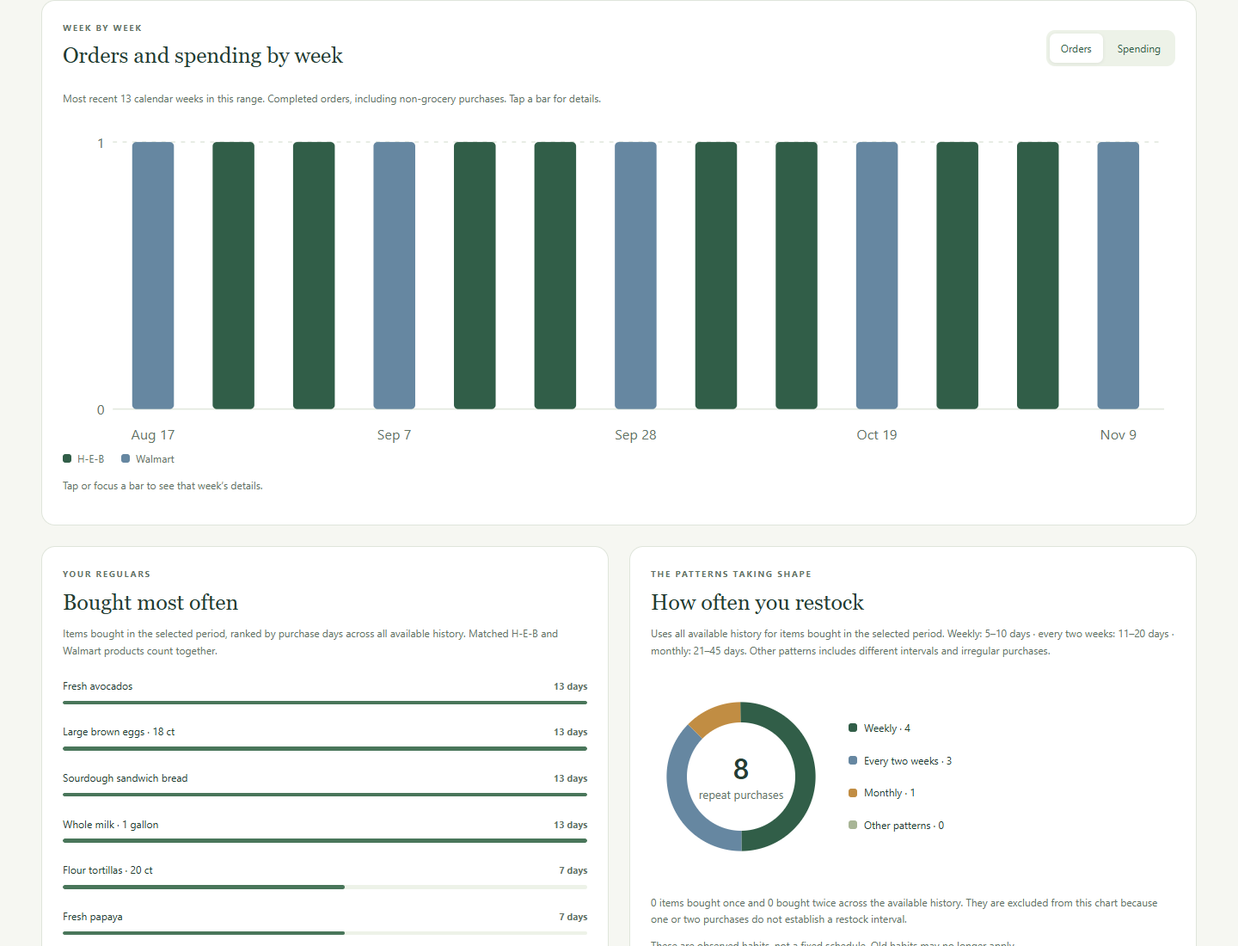
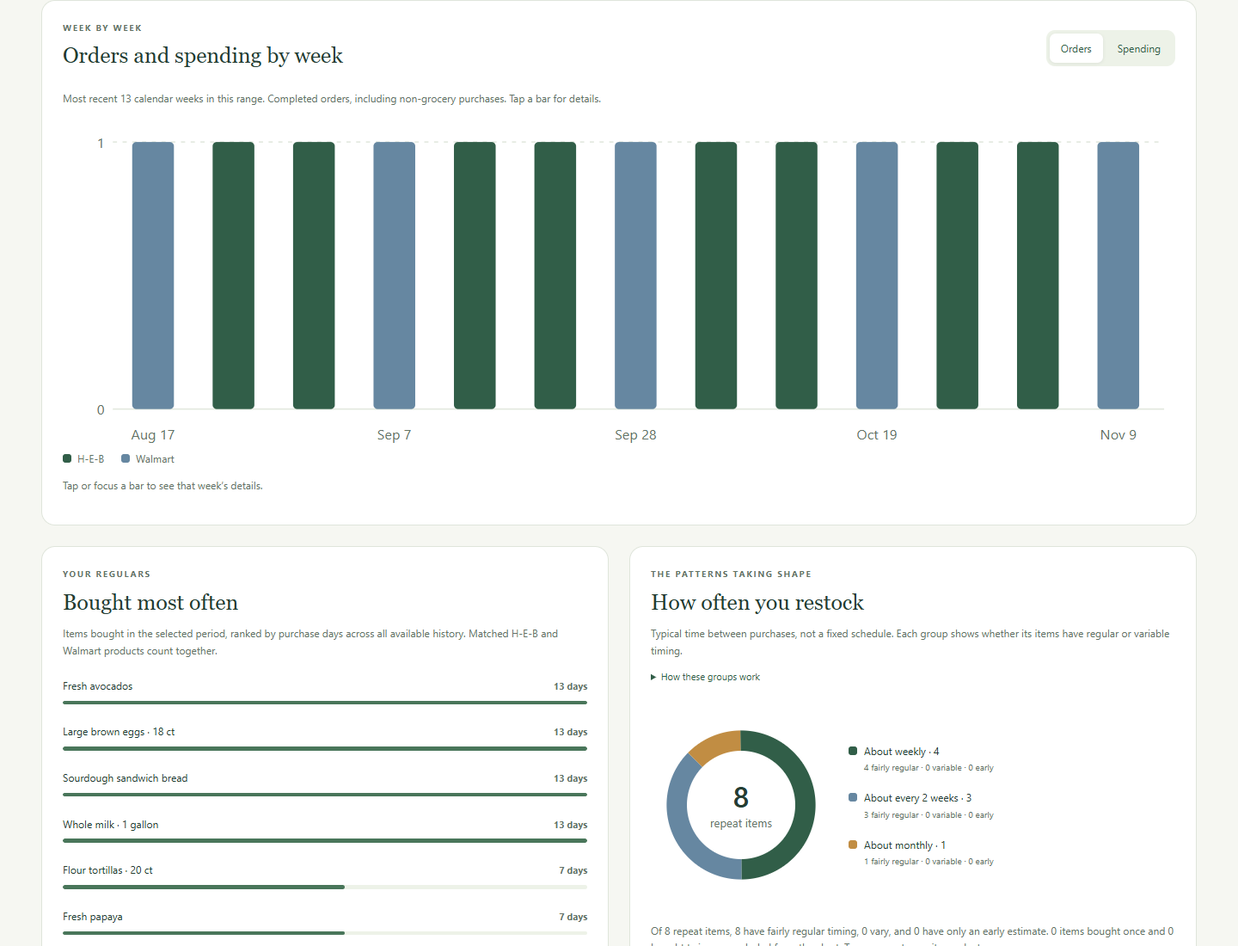
Separate restock frequency from timing consistency

Changed region(s): [[0.5312, 0.6491, 0.9375, 1.0]]

diff --git a/web/index.html b/web/index.html
@@ -9,6 +9,6 @@
 <aside><section class="list-card" aria-labelledby="cart-heading"><div class="section-heading"><div><p id="cart-store-label" class="eyebrow">LIVE WALMART CART</p><h2 id="cart-heading">Walmart cart <span id="list-count">0</span></h2></div></div><details id="cart-details" open><summary>Show cart & checkout</summary><p id="cart-description" class="fine">Changes here update the selected account’s cart.</p><div id="list"></div><button id="send" class="secondary full">↻ Check cart now</button><a id="checkout-link" class="primary" href="https://www.walmart.com/cart">Review & checkout ↗</a><details class="completion"><summary>After checkout (optional)</summary><p id="completion-question">Finished checking out?</p><button id="complete" class="text-button">Mark purchase complete</button><p class="fine">Optionally hide this checked-out shop while waiting for its receipt. Your store cart stays unchanged. Weekly history sync collects new purchases and updates spending automatically.</p></details></details></section><details class="activity panel"><summary>Recent cart activity</summary><div id="jobs"></div></details></aside></div></section>
 <section id="lists-view" hidden><div class="page-heading"><div><p class="eyebrow">A LIST IS ALL YOU NEED</p><h1>From “milk” to your usual milk.</h1><p>Turn short item names into specific products, then review the list before sending.</p></div></div><div class="list-layout"><section class="planner" aria-labelledby="planner-heading"><p class="eyebrow">FROM A SHORT LIST TO THE RIGHT PRODUCTS</p><h2 id="planner-heading">What’s on the list?</h2><p>Paste a family member’s list. We’ll use your saved choices and show you any extras before you send it.</p><label for="grocery-text">One item per line; quantities such as “2 milk” are optional</label><textarea id="grocery-text" rows="6" placeholder="bread&#10;butter&#10;milk&#10;tortillas"></textarea><button id="plan-list">Review my list</button><p id="plan-status" role="status"></p><div id="plan-review"></div><div id="plan-summary" aria-live="polite"></div><button id="plan-send" hidden>Send reviewed items to Walmart</button></section><aside class="panel list-guide"><p class="eyebrow">HOW IT WORKS</p><h2>A quick review, then you’re ready.</h2><ol><li><strong>Paste the list.</strong><p>One item per line. A missing quantity uses your usual amount, or one package.</p></li><li><strong>Review the choices.</strong><p>Pick exact products and check any associated extras.</p></li><li><strong>Send to your cart.</strong><p>Nothing is sent until you choose to send the reviewed list.</p></li></ol><button class="secondary" data-view="setup">Manage usual products & extras</button></aside></div></section>
 <section id="packs-view" hidden><div class="page-heading"><div><p class="eyebrow">THE THINGS THAT GO TOGETHER</p><h1>Shopping packs</h1><p>Pick a familiar group, see what’s inside, and choose just what you need.</p></div></div><section class="panel"><label for="pack-select">Choose a pack</label><select id="pack-select"></select><p id="pack-description" class="fine"></p><div id="pack-items"></div><button id="pack-add" class="primary" hidden>Add selected items to Walmart cart</button><p id="pack-status" role="status"></p></section><details class="panel"><summary>Create or customize a pack</summary><p>Choose a name your household will recognize, such as “Breakfast restock.” Saving a pack does not add anything to your cart.</p><label for="pack-name">Pack name</label><input id="pack-name" maxlength="100" placeholder="e.g. Bathroom restock & breakfast"><label for="pack-search">Find products</label><input id="pack-search" type="search" placeholder="Search saved products"><div id="pack-builder"></div><button id="pack-save">Save pack</button><p class="fine">To customize a suggested pack, select it above, then save your own name and contents here. Suggestions use items repeatedly bought together, rather than items that merely appear in many orders. You may see only a few suggestions. Create your own pack whenever you want a specific group.</p></details></section><section id="history-view" hidden><div class="page-heading"><div><p class="eyebrow">LEARN FROM THE SHOPS YOU FINISH</p><h1>Shopping history</h1><p>Completed purchases build your reorder suggestions. Cart activity is kept separately.</p></div></div><div class="history-toolbar panel"><label for="history-search">Find a purchase<input id="history-search" type="search" placeholder="Search items in your orders"></label><label for="history-store">Store<select id="history-store"><option value="all">Both stores</option><option value="HEB">H-E-B</option><option value="Walmart">Walmart</option></select></label><p id="history-summary" class="fine"></p></div><div id="pending-purchases"></div><div id="history" class="history"></div><div id="history-pagination" class="history-pagination"></div><details class="panel history-tools"><summary>Import older purchases</summary><section class="panel"><h2>Import past purchases</h2><p>Upload a purchase-history file in the format shown below. Review the orders before importing. Uploading a file does not change your store cart.</p><label for="import-account">Household account for this history</label><select id="import-account"></select><label for="import-store">Store</label><select id="import-store"><option value="Walmart">Walmart</option><option value="HEB">H-E-B</option></select><label for="import-file">History file (JSON or CSV, up to 1.5 MB)</label><input id="import-file" type="file" accept=".json,.csv,application/json,text/csv"><button id="import-preview">Preview import</button><p><a href="/history-template.csv" download>Download CSV format example</a> · <a href="/history-template.json" download>Download JSON format example</a></p><p class="fine">Examples contain fictional orders. Do not import them as real purchases. Both stores can inform shared suggestions after product matches are reviewed. Cart filling is available for both stores.</p><p id="import-status" role="status"></p><div id="import-review"></div><button id="import-commit" hidden>Import selected completed orders</button></section></details><details class="panel history-tools"><summary>Past cart additions <span class="fine">Includes early testing; not used for reorder timing.</span></summary><div id="cart-history" class="history"></div></details></section>
-<section id="stats-view" hidden><div class="page-heading"><div><p class="eyebrow">A CLEARER VIEW OF YOUR ROUTINE</p><h1>Spending & shopping habits</h1><p>See what you buy, when you buy it, and where there may be better value.</p></div></div><div class="stats-toolbar panel"><div><label for="stats-period">History to summarize</label><select id="stats-period"><option value="90">Last 90 days</option><option value="365">Last 12 months</option><option value="0">All history</option></select></div><div><label for="stats-store">Store</label><select id="stats-store"><option value="all">Both stores</option><option value="HEB">H-E-B</option><option value="Walmart">Walmart</option></select></div><p id="stats-range" class="fine"></p><div><button id="stats-refresh" class="secondary">Refresh data</button><p id="stats-freshness" class="fine">Checking household database…</p></div></div><div id="stats-empty" class="empty" hidden>No completed purchases in this range. Choose another store or time period.</div><div id="stats-content"><div id="stats-metrics" class="stat-metrics"></div><p id="stats-coverage" class="stat-coverage"></p><div class="stats-columns"><section class="panel"><h2>Items getting more expensive</h2><p class="fine">Your last two purchases of the same product at the same store. Prices are compared per package or by weight.</p><div id="stats-price-rises"></div></section><section class="panel"><h2>Plan your next shop</h2><p id="stats-next-summary"></p><div id="stats-next-items"></div><p id="stats-next-cost" class="fine"></p><button id="stats-build-list" class="primary">Review my usual list</button></section></div><section class="panel"><h2>Prices checked at the stores</h2><p class="fine">Store prices checked within the last 7 days, compared using your saved package amounts. Alternatives with different types are excluded. Delivery charges, tax and checkout discounts may differ.</p><button id="current-prices-refresh">Check matched prices at both stores</button><p id="current-prices-status" role="status" class="fine"></p><div id="current-price-comparisons"></div></section><section class="panel stat-trend-panel"><div class="section-heading"><div><p class="eyebrow">WEEK BY WEEK</p><h2>Orders and spending by week</h2></div><div class="stat-chart-switch"><button data-stat-chart="activity" aria-pressed="true">Orders</button><button data-stat-chart="cost" aria-pressed="false">Spending</button></div></div><p id="stats-trend-caption" class="fine"></p><div id="stats-trend"></div><div id="stats-chart-legend" class="stat-chart-legend"><span><i style="background:#315e48"></i>H-E-B</span><span><i style="background:#6687a1"></i>Walmart</span></div><p id="stats-chart-note" role="status" class="fine">Tap or focus a bar to see that week’s details.</p></section><div class="stats-columns"><section class="panel"><p class="eyebrow">YOUR REGULARS</p><h2>Bought most often</h2><p class="fine">Items bought in the selected period, ranked by purchase days across all available history. Matched H-E-B and Walmart products count together.</p><div id="stats-top"></div></section><section class="panel"><p class="eyebrow">THE PATTERNS TAKING SHAPE</p><h2>How often you restock</h2><p class="fine">Uses all available history for items bought in the selected period. Weekly: 5–10 days · every two weeks: 11–20 days · monthly: 21–45 days. Other patterns includes different intervals and irregular purchases.</p><div id="stats-cadence"></div><p id="stats-cadence-note" class="fine"></p><p class="fine">These are observed habits, not a fixed schedule. Old habits may no longer apply.</p></section></div><section class="panel"><div class="section-heading"><div><p class="eyebrow">PLAN WITH LESS GUESSWORK</p><h2>Your purchase patterns</h2></div><label for="stats-cadence-filter">Show<select id="stats-cadence-filter"><option>All</option><option>Weekly</option><option>Every two weeks</option><option>Monthly</option><option>Other patterns</option><option>Bought once</option><option>Bought twice</option></select></label></div><p class="fine">Use past buying habits to plan what to check at home. Purchase frequency does not tell us how much you have left. Matched products count together; package size and household needs can change.</p><label for="stats-pattern-sort">Sort items<select id="stats-pattern-sort"><option value="frequent">Most frequently bought</option><option value="recent">Most recently bought</option><option value="name">Item name A–Z</option></select></label><label class="stat-pattern-search" for="stats-pattern-search">Find an item<input id="stats-pattern-search" type="search" placeholder="Search your purchase patterns"></label><p id="stats-pattern-summary" class="fine"></p><div class="stat-table-wrap"><table class="stat-table"><thead><tr><th scope="col">Item</th><th scope="col">Buying habit</th><th scope="col">Last purchase</th><th scope="col">History behind this</th><th scope="col">For planning</th></tr></thead><tbody id="stats-patterns"></tbody></table></div><p class="fine stat-scroll-hint">Open the purchase-day count to see the dates and intervals behind each estimate.</p><div id="stats-pattern-pages" class="history-pagination"></div></section><section class="stat-value-section"><p class="eyebrow">MAKE THE NEXT SHOP COUNT</p><h2>Where to check for better value</h2><p class="fine">Fresh store-price comparisons appear first. Planning ideas use your purchase history. Offers may have conditions; confirm the final price at checkout.</p><div id="stats-savings" class="stats-tips"></div></section></div></section>
+<section id="stats-view" hidden><div class="page-heading"><div><p class="eyebrow">A CLEARER VIEW OF YOUR ROUTINE</p><h1>Spending & shopping habits</h1><p>See what you buy, when you buy it, and where there may be better value.</p></div></div><div class="stats-toolbar panel"><div><label for="stats-period">History to summarize</label><select id="stats-period"><option value="90">Last 90 days</option><option value="365">Last 12 months</option><option value="0">All history</option></select></div><div><label for="stats-store">Store</label><select id="stats-store"><option value="all">Both stores</option><option value="HEB">H-E-B</option><option value="Walmart">Walmart</option></select></div><p id="stats-range" class="fine"></p><div><button id="stats-refresh" class="secondary">Refresh data</button><p id="stats-freshness" class="fine">Checking household database…</p></div></div><div id="stats-empty" class="empty" hidden>No completed purchases in this range. Choose another store or time period.</div><div id="stats-content"><div id="stats-metrics" class="stat-metrics"></div><p id="stats-coverage" class="stat-coverage"></p><div class="stats-columns"><section class="panel"><h2>Items getting more expensive</h2><p class="fine">Your last two purchases of the same product at the same store. Prices are compared per package or by weight.</p><div id="stats-price-rises"></div></section><section class="panel"><h2>Plan your next shop</h2><p id="stats-next-summary"></p><div id="stats-next-items"></div><p id="stats-next-cost" class="fine"></p><button id="stats-build-list" class="primary">Review my usual list</button></section></div><section class="panel"><h2>Prices checked at the stores</h2><p class="fine">Store prices checked within the last 7 days, compared using your saved package amounts. Alternatives with different types are excluded. Delivery charges, tax and checkout discounts may differ.</p><button id="current-prices-refresh">Check matched prices at both stores</button><p id="current-prices-status" role="status" class="fine"></p><div id="current-price-comparisons"></div></section><section class="panel stat-trend-panel"><div class="section-heading"><div><p class="eyebrow">WEEK BY WEEK</p><h2>Orders and spending by week</h2></div><div class="stat-chart-switch"><button data-stat-chart="activity" aria-pressed="true">Orders</button><button data-stat-chart="cost" aria-pressed="false">Spending</button></div></div><p id="stats-trend-caption" class="fine"></p><div id="stats-trend"></div><div id="stats-chart-legend" class="stat-chart-legend"><span><i style="background:#315e48"></i>H-E-B</span><span><i style="background:#6687a1"></i>Walmart</span></div><p id="stats-chart-note" role="status" class="fine">Tap or focus a bar to see that week’s details.</p></section><div class="stats-columns"><section class="panel"><p class="eyebrow">YOUR REGULARS</p><h2>Bought most often</h2><p class="fine">Items bought in the selected period, ranked by purchase days across all available history. Matched H-E-B and Walmart products count together.</p><div id="stats-top"></div></section><section class="panel"><p class="eyebrow">THE PATTERNS TAKING SHAPE</p><h2>How often you restock</h2><p class="fine">Typical time between purchases, not a fixed schedule. Each group shows whether its items have regular or variable timing.</p><details class="stat-cadence-method"><summary>How these groups work</summary><p class="fine">For items bought in the selected period, we use up to 12 recent gaps from all available history. The middle gap sets the frequency group; consistency is assessed separately. Every few days: 1–4 days · weekly: 5–10 · every 2 weeks: 11–20 · monthly: 21–45 · every few months: 46–120 · less often: over 120. Groups use rounded days.</p></details><div id="stats-cadence"></div><p id="stats-cadence-note" class="fine"></p><p class="fine">These are observed habits, not a fixed schedule. Old habits may no longer apply.</p></section></div><section class="panel"><div class="section-heading"><div><p class="eyebrow">PLAN WITH LESS GUESSWORK</p><h2>Your purchase patterns</h2></div><label for="stats-cadence-filter">Show<select id="stats-cadence-filter"><option>All</option><option>Every few days</option><option value="Weekly">About weekly</option><option value="Every two weeks">About every 2 weeks</option><option value="Monthly">About monthly</option><option>Every few months</option><option>Less often</option><option>Bought once</option><option>Bought twice</option></select></label></div><p class="fine">Use past buying habits to plan what to check at home. Purchase frequency does not tell us how much you have left. Matched products count together; package size and household needs can change.</p><label for="stats-pattern-sort">Sort items<select id="stats-pattern-sort"><option value="frequent">Most frequently bought</option><option value="recent">Most recently bought</option><option value="name">Item name A–Z</option></select></label><label class="stat-pattern-search" for="stats-pattern-search">Find an item<input id="stats-pattern-search" type="search" placeholder="Search your purchase patterns"></label><p id="stats-pattern-summary" class="fine"></p><div class="stat-table-wrap"><table class="stat-table"><thead><tr><th scope="col">Item</th><th scope="col">Typical gap & consistency</th><th scope="col">Last purchase</th><th scope="col">History behind this</th><th scope="col">For planning</th></tr></thead><tbody id="stats-patterns"></tbody></table></div><p class="fine stat-scroll-hint">Open the purchase-day count to see the dates and intervals behind each estimate.</p><div id="stats-pattern-pages" class="history-pagination"></div></section><section class="stat-value-section"><p class="eyebrow">MAKE THE NEXT SHOP COUNT</p><h2>Where to check for better value</h2><p class="fine">Fresh store-price comparisons appear first. Planning ideas use your purchase history. Offers may have conditions; confirm the final price at checkout.</p><div id="stats-savings" class="stats-tips"></div></section></div></section>
 <section id="setup-view" hidden class="setup"><div class="page-heading"><p class="eyebrow">MAKE IT YOUR HOUSEHOLD’S</p><h1>Settings</h1><p>Set your shopping preferences, manage connected accounts, and review history sync. Product matching is available below when you need it.</p></div><nav class="settings-nav" aria-label="Settings sections"><button data-settings-jump="settings-shopping">Shopping preferences</button><button data-settings-jump="settings-usuals">Usual items & extras</button><button data-settings-jump="settings-sync">History sync</button><button data-settings-jump="settings-accounts">Accounts</button><button data-settings-jump="settings-matches">Product matches</button></nav><section class="panel" id="settings-shopping"><label for="preferred-store">Main grocery store</label><select id="preferred-store"><option value="HEB">H-E-B</option><option value="Walmart">Walmart</option></select><p class="fine">Chooses which store’s product to prefer in shared suggestions. The shop and checkout use this store; existing store carts stay separate.</p></section><section class="panel"><h2>H-E-B produce preferences</h2><label for="heb-ripeness">When H-E-B offers a ripeness choice</label><select id="heb-ripeness"><option>No preference</option><option>Ready Now</option><option>Ready Later</option></select><p class="fine">Used for items such as avocados. The helper chooses this option before confirming the add.</p></section><section class="panel" id="settings-usuals"><details><summary>Usual products & automatic extras</summary><p>Choices are shared across your household. Usual products are saved separately for H-E-B and Walmart.</p><div id="saved-defaults"></div><h3>When this is requested, also get…</h3><label for="rule-trigger">Requested item</label><input id="rule-trigger" placeholder="e.g. butter" maxlength="100"><label for="rule-extra">Extra item</label><input id="rule-extra" placeholder="e.g. papaya" maxlength="100"><label for="rule-mode">How to include it in the review</label><select id="rule-mode"><option value="suggest">Suggest, initially unchecked</option><option value="include">Include, initially checked</option></select><button id="rule-save">Save association</button><div id="saved-rules"></div></details></section><section class="panel" id="settings-accounts"><details><summary>Connected accounts</summary><div id="browser-setup"></div><ol><li>Reload Home Grocery Helper in Chrome’s Extensions page.</li><li>In the extension, set Household website to <strong id="server-url"></strong>, then choose Connect household.</li><li>Use a separate Chrome profile for each Walmart account. In each extension, enter an account nickname under Household website and connect it. Link each account to its matching PC Chrome profile above to open Chrome automatically when a list arrives. Connect the Walmart session if it asks.</li></ol></details></section><section class="panel" id="settings-sync"><h2>Purchase history sync</h2><p>Every Monday at 2 a.m. Eastern time, for both stores on your default account. If this PC is off, it catches up when the server starts. Already verified receipts are skipped. Chrome keeps your store sign-ins.</p><button id="history-sync-now">Check for new purchases now</button><p id="history-sync-status" role="status"></p><div id="history-sync-tasks"></div></section><section class="panel"><h2>Product photos</h2><p class="fine">Photos are saved on this PC and shared with your household devices. The helper learns photos as you browse store product pages, search results and carts. Collect a batch for your selected store to fill gaps now.</p><p id="photo-cache-status" class="fine"></p><button id="collect-photos">Collect missing photos</button><p id="photo-collect-status" role="status" class="fine"></p></section><section class="panel" id="settings-matches"><details><summary>Match products across stores</summary><p class="fine">Match products you would buy in place of each other, such as your usual Walmart milk and H-E-B milk. Purchases from either store then count toward the same household item. Check type and package size first.</p><div id="household-matches"></div><details><summary>Add or edit a household item</summary><label for="household-item-name">Name for this item</label><input id="household-item-name" maxlength="100" placeholder="e.g. Whole milk — gallon equivalent"><label for="household-item-search">Find products in completed purchases</label><input id="household-item-search" type="search" placeholder="Try milk"><p class="fine">For package counts, set equivalent amounts: a gallon = 1, a half gallon = 0.5. Weight matches retain their units. When linking a package to a weighed product, enter grams per package (12 oz = 340.194 g).</p><div id="household-item-options"></div><button id="household-item-save">Save product match</button><button id="household-item-reset">Match another item</button><p id="household-item-status" role="status"></p></details></details></section><details class="panel" hidden><summary>Paused headless browser</summary><p class="fine">Experimental. The current runner is paused after repeated Walmart human checks. Your regular Chrome connection is the working option.</p><div id="headless-accounts"></div><label for="runner-name">New headless account nickname</label><input id="runner-name" maxlength="60" placeholder="e.g. Avery groceries"><button id="runner-setup">Set up headless runner / sign in</button><p>Setup opens a separate browser for sign-in. Complete any Walmart check and make one normal cart change. Future launches run without visible windows. Close this setup browser before testing headless mode.</p></details><p>The extension shares learned products and shopping history with this PC’s database. Browsers on your home network can use this website; Walmart credentials stay with Walmart.</p><p>Use <strong>http://groceries.local</strong> on your other home computers. The hosting PC must stay on. If your device cannot resolve local names, the original address is <strong>http://192.168.1.250:4317</strong>.</p></section>
 </main><footer><span>Home Grocery · Made for the everyday.</span><span>Home network · Checkout stays with your store</span></footer><script src="/calendar.js"></script><script src="/list-planner.js"></script><script src="/statistics.js"></script><script src="/product-photos.js"></script><script src="/app.js"></script><script src="/usual-list.js"></script><script src="/planner-ui.js"></script><script src="/history-import-ui.js"></script><script src="/packs-ui.js"></script><script src="/household-items-ui.js"></script><script src="/history-ui.js"></script><script src="/current-prices.js"></script><script src="/statistics-ui.js"></script><script src="/store-sync-ui.js"></script></body></html>

diff --git a/web/statistics-ui.js b/web/statistics-ui.js
@@ -22,9 +22,9 @@
     const query=$('stats-pattern-search').value.trim().toLowerCase();const rows=data.patterns.filter(p=>(cadenceFilter==='All'||p.cadence===cadenceFilter)&&(!query||p.name.toLowerCase().includes(query)));const sort=$('stats-pattern-sort').value;rows.sort(sort==='recent'?(a,b)=>b.last-a.last||b.visits-a.visits:sort==='name'?(a,b)=>a.name.localeCompare(b.name):(a,b)=>b.visits-a.visits||b.last-a.last);patternPage=Math.min(patternPage,Math.max(0,Math.ceil(rows.length/10)-1));$('stats-patterns').replaceChildren();
     for(const item of rows.slice(patternPage*10,(patternPage+1)*10)){
       const tr=node('tr'),name=node('td');name.dataset.label='Item';name.append(node('strong',item.name),node('small',item.stores.map(s=>s==='HEB'?'H-E-B':s).join(' + ')));
-      const routine=node('td');routine.dataset.label='Buying habit';routine.append(node('strong',item.cadence==='Other patterns'?(item.regularTiming?'Other interval':'Timing varies'):item.cadence),node('small',item.interval===null?'No repeat estimate yet':item.cadence==='Other patterns'&&!item.regularTiming?item.minGap+'–'+item.maxGap+' days between recent purchases':'About every '+Math.round(item.interval)+' days'),node('small',item.interval===null?'':item.confidence));
+      const routine=node('td');routine.dataset.label='Typical gap & consistency';routine.append(node('strong',item.cadenceLabel||item.cadence),node('small',item.interval===null?'No repeat estimate yet':'Typical gap: '+Math.round(item.interval)+' days'),node('small',item.interval===null?'':item.confidence));if(item.gapCount>=3&&!item.consistent)routine.append(node('small','Middle half of recent gaps: '+item.typicalMinGap+'–'+item.typicalMaxGap+' days'));
       const elapsed=HouseholdCalendar.elapsed(item.last),last=node('td');last.dataset.label='Last purchase';last.append(node('strong',date(item.last)),node('small',elapsed===0?'Today':elapsed===1?'Yesterday':elapsed+' days ago'));
-      const evidence=node('td'),details=node('details');evidence.dataset.label='History behind this';details.append(node('summary',item.visits+' purchase '+(item.visits===1?'day':'days')),node('p','Recorded '+date(item.first)+'–'+date(item.last)+'. Multiple purchases on the same date count as one day. '+(item.gapCount>=2?'Timing uses the most recent '+item.gapCount+' intervals, ranging from '+item.minGap+' to '+item.maxGap+' days.':'At least three purchase days are needed to estimate timing.'),'fine'));evidence.append(details);
+      const evidence=node('td'),details=node('details');evidence.dataset.label='History behind this';details.append(node('summary',item.visits+' purchase '+(item.visits===1?'day':'days')),node('p','Recorded '+date(item.first)+'–'+date(item.last)+'. Multiple purchases on the same date count as one day. '+(item.gapCount>=2?'Typical timing is the median of the most recent '+item.gapCount+' gaps. From older to newer: '+item.gaps.join(', ')+' days. Range: '+item.minGap+'–'+item.maxGap+' days. Frequency groups do not imply a fixed routine.':'At least three purchase days are needed to estimate timing.'),'fine'));evidence.append(details);
       let insight=item.visits<3?'Too few repeats to estimate a routine.':item.gapCount<3?'Early estimate from only two intervals. Check your needs before treating this as a routine.':!item.consistent?'Timing varies. Check your needs rather than following a schedule.':elapsed>Math.max(30,item.interval*3)?'Older habit. Check whether you still buy this regularly.':elapsed>=Math.max(1,item.interval-2)?'Near or past your usual interval. Check what you have before the next shop.':'You bought this more recently than your usual interval.';const note=node('td',insight);note.dataset.label='For planning';tr.append(name,routine,last,evidence,note);$('stats-patterns').append(tr);
     }
     $('stats-pattern-summary').textContent=rows.length?'Showing '+(patternPage*10+1)+'–'+Math.min((patternPage+1)*10,rows.length)+' of '+rows.length+' items bought in the selected period. Habits and purchase-day counts use all available history for the selected stores.':'No items match this search and filter.';
@@ -51,8 +51,8 @@
     chart(data);
     $('stats-top').replaceChildren();const top=data.patterns.slice(0,10),max=top[0]?.visits||1;
     for(const item of top){const row=node('div',undefined,'stat-rank');const label=node('div');label.append(node('span',item.name),node('strong',item.visits+' days'));const meter=node('meter');meter.min=0;meter.max=max;meter.value=item.visits;meter.setAttribute('aria-label',item.name+': bought on '+item.visits+' days');row.append(label,meter);$('stats-top').append(row);}
-    const colors=['#315e48','#6687a1','#c18d43','#a8b596','#dce3d5'];$('stats-cadence').replaceChildren();const donut=svg('svg',{viewBox:'0 0 160 160',role:'img','aria-label':'Purchase patterns: '+data.cadence.map(c=>c.name+' '+c.count).join(', ')});let offset=0;const total=data.cadence.reduce((n,c)=>n+c.count,0)||1;
-    data.cadence.forEach((c,i)=>{const part=c.count/total*100;donut.append(svg('circle',{cx:80,cy:80,r:57,fill:'none',stroke:colors[i],'stroke-width':18,pathLength:100,'stroke-dasharray':part+' '+(100-part),'stroke-dashoffset':-offset,transform:'rotate(-90 80 80)'}));offset+=part;});const center=svg('text',{x:80,y:82,'text-anchor':'middle','font-size':26,fill:'#243d33','font-weight':600});center.textContent=data.cadence.reduce((n,c)=>n+c.count,0);const sub=svg('text',{x:80,y:100,'text-anchor':'middle','font-size':10,fill:'#647367'});sub.textContent='repeat purchases';donut.append(center,sub);$('stats-cadence').append(donut);const legend=node('div',undefined,'stat-cadence-legend');for(const [i,c] of data.cadence.entries()){const button=node('button',c.name+' · '+c.count);button.style.setProperty('--swatch',colors[i]);button.onclick=()=>{patternPage=0;cadenceFilter=c.name;$('stats-cadence-filter').value=c.name;signature='';window.renderStatistics();};legend.append(button);}$('stats-cadence').append(legend);$('stats-cadence-note').textContent=data.infrequent.once+' items bought once and '+data.infrequent.twice+' bought twice across the available history. They are excluded from this chart because one or two purchases do not establish a restock interval.';patterns(data);
+    const colors=['#7c8d69','#315e48','#6687a1','#c18d43','#957b9e','#bd8a75'];$('stats-cadence').replaceChildren();const donut=svg('svg',{viewBox:'0 0 160 160',role:'img','aria-label':'Purchase patterns: '+data.cadence.map(c=>c.label+' '+c.count).join(', ')});let offset=0;const total=data.cadence.reduce((n,c)=>n+c.count,0)||1;
+    data.cadence.forEach((c,i)=>{const part=c.count/total*100;donut.append(svg('circle',{cx:80,cy:80,r:57,fill:'none',stroke:colors[i],'stroke-width':18,pathLength:100,'stroke-dasharray':part+' '+(100-part),'stroke-dashoffset':-offset,transform:'rotate(-90 80 80)'}));offset+=part;});const center=svg('text',{x:80,y:82,'text-anchor':'middle','font-size':26,fill:'#243d33','font-weight':600});center.textContent=data.cadence.reduce((n,c)=>n+c.count,0);const sub=svg('text',{x:80,y:100,'text-anchor':'middle','font-size':10,fill:'#647367'});sub.textContent='repeat items';donut.append(center,sub);$('stats-cadence').append(donut);const legend=node('div',undefined,'stat-cadence-legend');for(const [i,c] of data.cadence.entries()){if(!c.count)continue;const button=node('button');const label=node('span');label.append(node('span',c.label+' · '+c.count),node('small',c.regular+' fairly regular · '+c.variable+' variable · '+c.early+' early'));button.append(label);button.disabled=!c.count;button.setAttribute('aria-label',c.label+': '+c.count+' items; '+c.regular+' fairly regular, '+c.variable+' variable timing, '+c.early+' early estimates');button.style.setProperty('--swatch',colors[i]);button.onclick=()=>{patternPage=0;cadenceFilter=c.name;$('stats-cadence-filter').value=c.name;signature='';window.renderStatistics();};legend.append(button);}$('stats-cadence').append(legend);const regularCount=data.cadence.reduce((n,c)=>n+c.regular,0),variableCount=data.cadence.reduce((n,c)=>n+c.variable,0),earlyCount=data.cadence.reduce((n,c)=>n+c.early,0);$('stats-cadence-note').textContent='Of '+data.cadence.reduce((n,c)=>n+c.count,0)+' repeat items, '+regularCount+' have fairly regular timing, '+variableCount+' vary, and '+earlyCount+' have only an early estimate. '+data.infrequent.once+' items bought once and '+data.infrequent.twice+' bought twice are excluded from the chart. Tap a group to see its products.';patterns(data);
 
     $('stats-savings').replaceChildren();
     for(const item of CurrentPriceComparisons.compare(state,selectedAccount).filter(i=>i.percent>=5).slice(0,4)){

diff --git a/web/statistics.js b/web/statistics.js
@@ -2,6 +2,8 @@
   const calendar=typeof module!=='undefined'&&module.exports?require('./calendar'):root.HouseholdCalendar;
   const DAY=86400000,grams={lb:453.59237,oz:28.349523125,g:1,kg:1000};
   const median=values=>{const v=[...values].sort((a,b)=>a-b),m=Math.floor(v.length/2);return v.length%2?v[m]:(v[m-1]+v[m])/2;};
+  const cadenceBands=[{name:'Every few days',label:'Every few days',max:4},{name:'Weekly',label:'About weekly',max:10},{name:'Every two weeks',label:'About every 2 weeks',max:20},{name:'Monthly',label:'About monthly',max:45},{name:'Every few months',label:'Every few months',max:120},{name:'Less often',label:'Less often',max:Infinity}];
+  const percentile=(values,fraction)=>{const v=[...values].sort((a,b)=>a-b),pos=(v.length-1)*fraction,index=Math.floor(pos);return v[index]+(v[Math.min(index+1,v.length-1)]-v[index])*(pos-index);};
   const week=time=>{const d=new Date(time);d.setUTCHours(0,0,0,0);d.setUTCDate(d.getUTCDate()-(d.getUTCDay()+6)%7);return d.getTime();};
   function analyze(state,{client,store='all',days=90,now=Date.now()}={}){
     const end=calendar.today(now),start=days?end-(days-1)*DAY:0;
@@ -37,15 +39,18 @@
       const interval=gaps.length>=2?median(gaps):null;const variation=interval?median(gaps.map(g=>Math.abs(g-interval)))/interval:null;
       const regularShare=interval?gaps.filter(g=>Math.abs(g-interval)<=Math.max(2,interval*.4)).length/gaps.length:0;
       const consistent=gaps.length>=3&&variation<=.4&&regularShare>=.75;
-      const cadence=dates.length===1?'Bought once':dates.length===2?'Bought twice':interval===null||variation>.6||regularShare<.7?'Other patterns':interval>=5&&interval<=10?'Weekly':interval>=11&&interval<=20?'Every two weeks':interval>=21&&interval<=45?'Monthly':'Other patterns';
-      return {...row,days:dates,stores:[...(lifetimeStores.get(row.id)||row.stores)],first:dates[0]*DAY,gapCount:gaps.length,minGap:gaps.length?Math.min(...gaps):null,maxGap:gaps.length?Math.max(...gaps):null,consistent,regularTiming:interval!==null&&variation<=.6&&regularShare>=.7,visits:dates.length,interval,cadence,confidence:consistent?'Fairly regular':gaps.length<3?'Early estimate':'Variable timing',last:dates.at(-1)*DAY,repeatWeeks:[...row.weeks.values()].filter(v=>v.size>1).length};
+      // Frequency describes the typical gap. Reliability is a separate judgment:
+      // a mix of weekly and fortnightly purchases still has useful frequency evidence.
+      const band=interval===null?null:cadenceBands.find(b=>Math.round(interval)<=b.max);
+      const cadence=dates.length===1?'Bought once':dates.length===2?'Bought twice':band.name;
+      return {...row,days:dates,stores:[...(lifetimeStores.get(row.id)||row.stores)],first:dates[0]*DAY,gaps,gapCount:gaps.length,minGap:gaps.length?Math.min(...gaps):null,maxGap:gaps.length?Math.max(...gaps):null,typicalMinGap:gaps.length?Math.floor(percentile(gaps,.25)):null,typicalMaxGap:gaps.length?Math.ceil(percentile(gaps,.75)):null,consistent,regularTiming:interval!==null&&variation<=.6&&regularShare>=.7,visits:dates.length,interval,cadence,cadenceLabel:band?.label||cadence,confidence:consistent?'Fairly regular':gaps.length<3?'Early estimate':'Variable timing',last:dates.at(-1)*DAY,repeatWeeks:[...row.weeks.values()].filter(v=>v.size>1).length};
     }).sort((a,b)=>b.visits-a.visits||a.name.localeCompare(b.name));
-    const cadence=['Weekly','Every two weeks','Monthly','Other patterns'].map(name=>({name,count:patterns.filter(p=>p.cadence===name).length}));
+    const cadence=cadenceBands.map(({name,label})=>{const members=patterns.filter(p=>p.cadence===name);return {name,label,count:members.length,regular:members.filter(p=>p.consistent).length,early:members.filter(p=>p.confidence==='Early estimate').length,variable:members.filter(p=>p.confidence==='Variable timing').length};});
     const savings=[];
     if(pricedRows<totalRows)savings.push({title:'Some item prices are still missing',text:(totalRows-pricedRows)+' purchased items are missing prices. Item-price comparisons will improve as those are collected. Spending totals come from full order receipts.',kind:'data'});
     const repeat=patterns.filter(p=>p.repeatWeeks>=2).slice(0,3);
     if(repeat.length)savings.push({title:'Check these before the next top-up shop',text:repeat.map(p=>p.name+' ('+p.repeatWeeks+' weeks with repeat buys)').join('; ')+'. Planning these together may avoid an extra trip; no delivery-fee saving is assumed.',kind:'planning'});
-    const regular=patterns.filter(p=>p.cadence==='Weekly').slice(0,3);
+    const regular=patterns.filter(p=>p.cadence==='Weekly'&&p.consistent).slice(0,3);
     if(regular.length)savings.push({title:'Compare unit prices on your weekly staples',text:regular.map(p=>p.name).join('; ')+'. A larger pack is better value only if its price per ounce, pound or count is lower and you can use it.',kind:'value'});
     for(const item of patterns){const recent=item.prices.filter(p=>now-p.time<=180*DAY),heb=recent.filter(p=>p.store==='HEB'),walmart=recent.filter(p=>p.store==='Walmart');if(!heb.length||!walmart.length)continue;const a=median(heb.map(p=>p.price)),b=median(walmart.map(p=>p.price));if(Math.min(a,b)>0&&Math.abs(a-b)/Math.max(a,b)>=.05){const factor=item.unit==='g'?453.59237:1;savings.push({store:a<b?'HEB':'Walmart',query:item.name,title:'Compare prices you paid before',text:item.name+': H-E-B $'+(a*factor).toFixed(2)+' versus Walmart $'+(b*factor).toFixed(2)+' '+(item.unit==='g'?'per lb':'for the same matched amount')+'. Typical prices you paid in the last 180 days. Compare the current products before choosing.',kind:'comparison'});}}
     const weekCount=weeks.size||1;

diff --git a/web/style.css b/web/style.css
@@ -45,3 +45,5 @@
 .shop-start-actions{display:flex;gap:10px;flex-shrink:0;align-items:center}.shop-start-actions button{white-space:nowrap}@media(max-width:1050px){.shop-start-actions{flex-wrap:wrap;flex-shrink:1}}@media(max-width:720px){.shop-start-actions{display:grid;grid-template-columns:1fr 1fr;margin-top:18px;gap:8px}.shop-start-actions button{white-space:normal;min-height:48px;padding:10px;font-size:12px}.store-banner{display:flex;align-items:center;justify-content:space-between;gap:12px}.store-banner .fine{display:none}.store-banner .primary{margin-top:0;white-space:nowrap}.store-banner h2{margin-bottom:0}.page-heading{padding:24px 0}.shop-start-actions #build-usual{width:auto}.store-banner .eyebrow{font-size:9px}}
 
 .product-photo{width:96px;height:96px;display:flex;align-items:center;justify-content:center;flex-shrink:0;border-radius:9px;background:white;overflow:hidden}.product-photo img{width:100%;height:100%;object-fit:contain}.product-photo.compact{width:48px;height:48px}.photo-pending{background:#f1f3ee;border:1px solid var(--line);color:var(--muted);font-size:10px;text-align:center;padding:5px}.product>.product-photo{grid-row:1/4;align-self:start}.suggestion-row>.product-photo{margin-right:10px}.list-item>.product-photo{float:left;margin:0 10px 8px 0}.pack-item>.product-photo{align-self:center}@media(max-width:720px){.product-photo{width:72px;height:72px}.product-photo.compact{width:40px;height:40px}.pack-item{gap:8px}.suggestion-row>.product-photo{display:none}.suggestion-row:has(img)>.product-photo{display:flex;width:40px;height:40px}.product>.product-photo{grid-row:auto}}
+.stat-cadence-legend button>span{display:grid;gap:3px}.stat-cadence-legend small{display:block;color:var(--muted);font-size:10px;line-height:1.4}.stat-cadence-legend button{align-items:flex-start}.stat-cadence-legend button:before{margin-top:4px}.stat-cadence-legend button:disabled{opacity:.55;cursor:default}
+.stat-cadence-method{font-size:11px;color:var(--muted);margin:8px 0 16px}.stat-cadence-method summary{color:var(--green)}@media(max-width:720px){#stats-cadence{flex-direction:column;align-items:stretch;gap:12px}#stats-cadence svg{width:150px;align-self:center}.stat-cadence-legend{grid-template-columns:repeat(2,minmax(0,1fr));gap:8px}.stat-cadence-legend button{min-width:0}.stat-cadence-legend button>span{min-width:0}}

diff --git a/README.md b/README.md
@@ -49,6 +49,8 @@ See your store cart, review items that may be due, and browse saved products.
 
 Weekly spending averages use full receipt totals, including recorded fees, taxes,
 and tips. Purchase patterns help distinguish regular restocks from occasional buys.
+Restock groups show the typical time between purchases separately from how
+consistent that timing is, with the actual purchase gaps available for review.
 
 ![Spending and habits dashboard showing weekly averages, order activity, and purchase patterns](docs/assets/spending-desktop.png)
 
